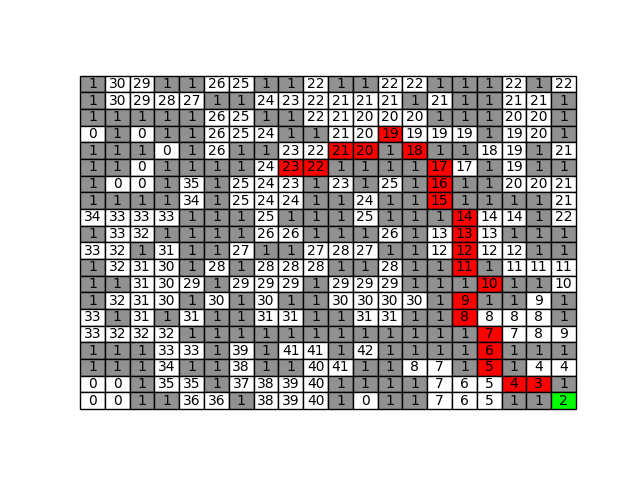
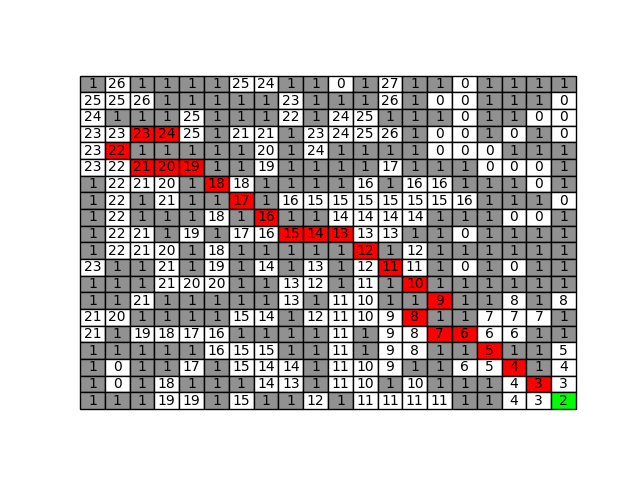
Make generated random map always have a solution

Changed region(s): [[0.125, 0.1562, 0.9062, 0.875]]

diff --git a/main.py b/main.py
@@ -373,6 +373,11 @@ def main_loop():
             start_row = int(input("Enter start row: "))
             start_col = int(input("Enter start col: "))
             value_map, trajectory = planner(map, start_row, start_col)
+            while trajectory == [[]] or trajectory == []:
+                map = generate_random_map()
+                map = np.array(map)
+                map = map.astype(np.uint16)
+                value_map, trajectory = planner(map, start_row, start_col)
             print_output(value_map, trajectory)
             display_map(value_map, trajectory)
 
